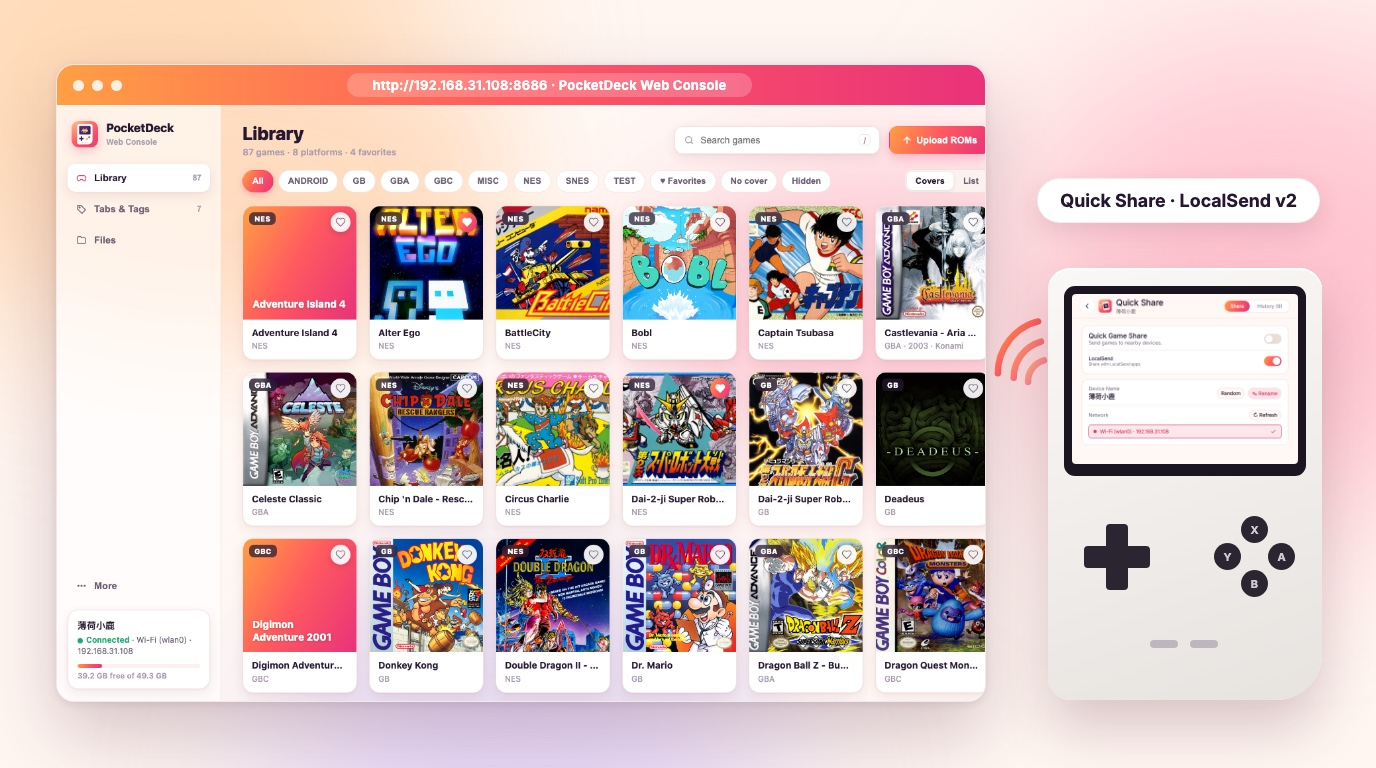
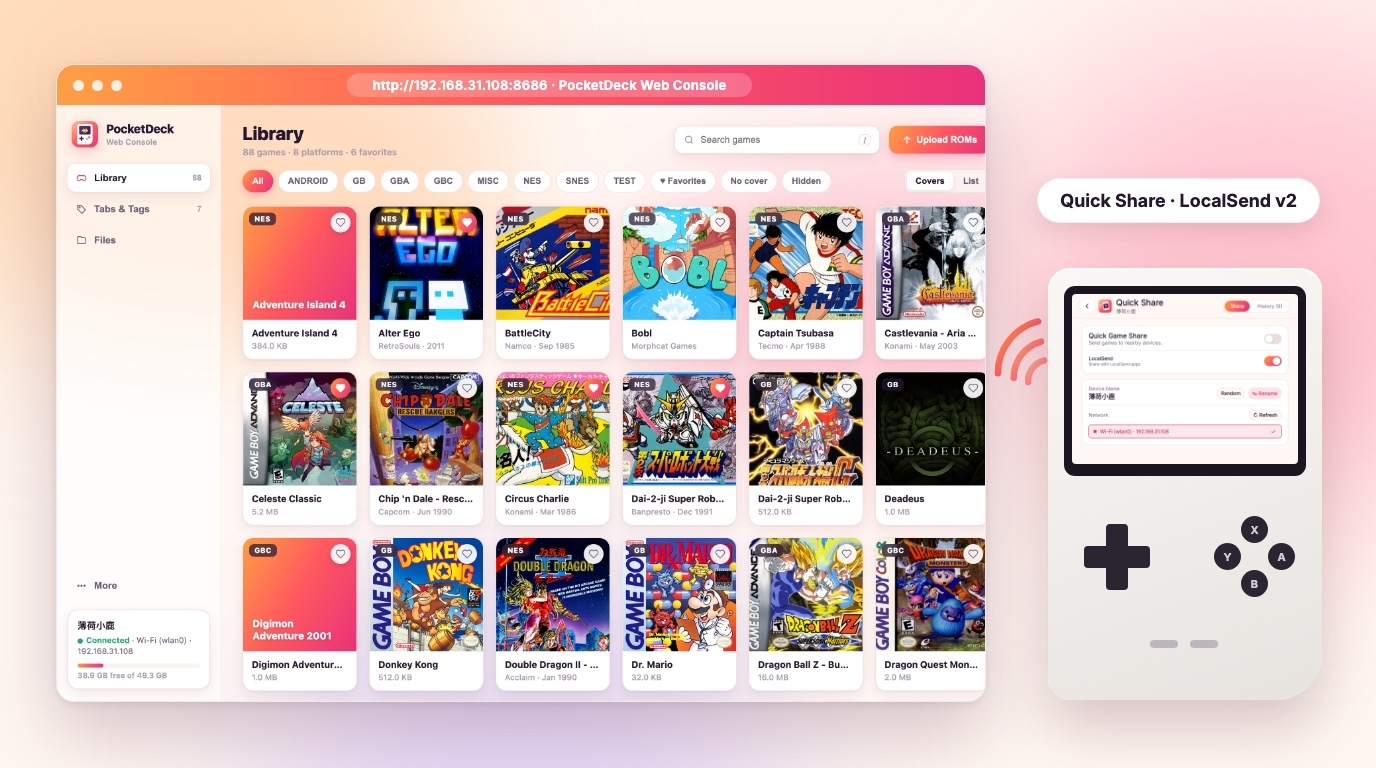
fix(web): polish console layout, edges, metadata, heartbeat, and modal

diff --git a/app/src/main/java/com/pocketdeck/launcher/lan/WebManagerUi.kt b/app/src/main/java/com/pocketdeck/launcher/lan/WebManagerUi.kt
@@ -358,7 +358,8 @@ document.getElementById('f').addEventListener('submit', async (e) => {
   .dev-bar i { display:block; height:100%; width:0%; background:var(--brand); border-radius:999px; transition:width .3s ease; }
   .dev-store { font-size:11.5px; color:var(--label); font-weight:600; }
 
-  .main { flex:1; min-width:0; padding:26px 32px 64px; max-width:1360px; }
+  .main-wrap { flex:1; min-width:0; }
+  .main { width:100%; max-width:1360px; margin:0 auto; padding:26px 32px 64px; }
   .page-top { display:flex; align-items:center; gap:14px; flex-wrap:wrap; margin-bottom:18px; }
   .page-top h1 { margin:0; font-size:28px; font-weight:800; letter-spacing:-.4px; }
   .page-sub { font-size:13.5px; color:var(--label); font-weight:600; margin-top:4px; }
@@ -387,7 +388,8 @@ document.getElementById('f').addEventListener('submit', async (e) => {
   }
   .btn:hover:not(:disabled) { border-color:var(--brand-mid); color:var(--accent); }
   .btn.primary {
-    background:var(--brand); color:#fff; border-color:transparent; font-weight:700;
+    background:var(--brand); background-origin:border-box; background-clip:border-box; background-repeat:no-repeat;
+    color:#fff; border-color:transparent; font-weight:700;
     box-shadow:0 6px 16px color-mix(in srgb, var(--brand-end) 28%, transparent);
   }
   .btn.primary:hover:not(:disabled) { opacity:.94; color:#fff; transform:translateY(-1px); }
@@ -405,7 +407,7 @@ document.getElementById('f').addEventListener('submit', async (e) => {
     display:inline-flex; align-items:center; gap:5px; transition:all .14s;
   }
   .fchip:hover { color:var(--text); border-color:var(--brand-mid); }
-  .fchip.on { background:var(--brand); color:#fff; border-color:transparent; box-shadow:0 4px 12px color-mix(in srgb, var(--brand-end) 26%, transparent); }
+  .fchip.on { background:var(--brand); background-origin:border-box; background-clip:border-box; background-repeat:no-repeat; color:#fff; border-color:transparent; box-shadow:0 4px 12px color-mix(in srgb, var(--brand-end) 26%, transparent); }
   .seg { margin-left:auto; display:inline-flex; background:var(--surf-alt); border:1px solid var(--line); border-radius:11px; padding:3px; gap:2px; }
   .seg button {
     border:0; background:transparent; color:var(--muted); padding:6px 13px;
@@ -511,7 +513,7 @@ document.getElementById('f').addEventListener('submit', async (e) => {
     padding:5px 12px; border-radius:999px; cursor:pointer; font-size:12.5px; font-weight:600;
   }
   .crumb:hover { border-color:var(--brand-mid); color:var(--accent); }
-  .crumb.cur { background:var(--brand); color:#fff; border-color:transparent; cursor:default; }
+  .crumb.cur { background:var(--brand); background-origin:border-box; background-clip:border-box; background-repeat:no-repeat; color:#fff; border-color:transparent; cursor:default; }
   .dropzone {
     border:1.5px dashed color-mix(in srgb, var(--brand-mid) 55%, var(--line));
     border-radius:16px; padding:20px; text-align:center; color:var(--muted);
@@ -529,42 +531,42 @@ document.getElementById('f').addEventListener('submit', async (e) => {
   .batch-bar.show { display:flex; }
 
   .modal-bg {
-    position:fixed; inset:0; background:rgba(23,17,31,.38); backdrop-filter:blur(4px);
+    position:fixed; inset:0; background:rgba(23,17,31,.40); backdrop-filter:blur(4px);
     display:none; align-items:center; justify-content:center; z-index:50; padding:20px;
   }
   .modal-bg.open { display:flex; }
-  .modal-bg.drawer-mode { justify-content:flex-end; align-items:stretch; padding:20px; }
   .modal {
-    width:100%; max-width:680px; max-height:90vh; background:var(--surf);
+    width:100%; max-width:650px; max-height:88vh; background:var(--surf);
     border:1px solid var(--line); border-radius:22px; overflow:hidden;
     display:flex; flex-direction:column; box-shadow:0 30px 80px rgba(36,23,47,.28);
   }
-  .modal-bg.drawer-mode .modal { max-width:416px; max-height:none; height:100%; border-radius:22px; }
   .modal-hd {
     padding:16px 20px; border-bottom:1px solid var(--line);
     display:flex; align-items:center; gap:10px; font-weight:800; font-size:17px;
   }
-  .modal-bd { padding:18px 20px; overflow:auto; flex:1; }
+  .modal-bd { padding:20px; overflow:auto; flex:1; }
   .modal-ft {
     padding:13px 20px; border-top:1px solid var(--line);
     display:flex; gap:8px; justify-content:flex-end; flex-wrap:wrap; background:var(--surf);
   }
 
+  .detail-hero { display:flex; gap:20px; align-items:flex-start; flex-wrap:wrap; margin-bottom:14px; }
   .drawer-cover {
-    width:176px; height:176px; border-radius:16px; overflow:hidden;
-    background:var(--brand); box-shadow:var(--shadow); margin-bottom:14px;
+    width:168px; height:168px; border-radius:16px; overflow:hidden; flex-shrink:0;
+    background:var(--brand); box-shadow:var(--shadow);
     display:grid; place-items:center; color:#fff; font-weight:800; font-size:15px; text-align:center;
   }
   .drawer-cover span { padding:14px; }
   .drawer-cover img { width:100%; height:100%; object-fit:cover; display:block; }
+  .detail-info { flex:1; min-width:220px; }
   .drawer-title { font-size:21px; font-weight:800; letter-spacing:-.3px; margin:0 0 10px; line-height:1.25; }
-  .drawer-tags { display:flex; gap:7px; flex-wrap:wrap; margin-bottom:14px; }
+  .drawer-tags { display:flex; gap:7px; flex-wrap:wrap; margin-bottom:12px; }
   .meta-kv { display:grid; grid-template-columns:1fr 1fr; gap:9px; margin:12px 0 14px; }
   .kv-box { background:var(--surf-alt); border-radius:12px; padding:10px 12px; }
   .kv-k { font-size:11.5px; color:var(--label); font-weight:600; }
   .kv-v { font-size:13.5px; font-weight:700; margin-top:3px; word-break:break-word; color:var(--text); }
-  .drawer-acts { display:flex; gap:8px; flex-wrap:wrap; margin:14px 0 12px; }
-  .drawer-acts .btn { flex:1; justify-content:center; min-width:96px; }
+  .drawer-acts { display:flex; gap:8px; flex-wrap:wrap; margin-top:10px; }
+  .drawer-acts .btn { justify-content:center; }
 
   .plat-grid { display:grid; grid-template-columns:repeat(auto-fill, minmax(120px, 1fr)); gap:7px; max-height:220px; overflow:auto; padding:2px; }
   .plat-chk {
@@ -609,7 +611,7 @@ document.getElementById('f').addEventListener('submit', async (e) => {
   .log-win-bar { display:flex; align-items:center; gap:6px; flex-wrap:wrap; }
   .log-win-btn { border:1px solid #3A2D4A; background:#231A30; color:#E8DFF0; border-radius:8px; padding:4px 9px; font-size:11.5px; font-weight:600; cursor:pointer; }
   .log-win-btn:hover { border-color:var(--brand-mid); }
-  .log-win-btn.on { background:var(--brand); border-color:transparent; color:#fff; }
+  .log-win-btn.on { background:var(--brand); background-origin:border-box; background-clip:border-box; background-repeat:no-repeat; border-color:transparent; color:#fff; }
   .log-win-btn.err { color:#ff7b72; }
   .log-win-in { flex:1; min-width:120px; border:1px solid #3A2D4A; background:#120D1A; color:#F2ECF7; border-radius:8px; padding:4px 9px; font-size:12px; outline:none; }
   .log-win-ft { display:flex; align-items:center; justify-content:space-between; gap:8px; font-size:11px; color:#9E8FB2; }
@@ -688,6 +690,7 @@ document.getElementById('f').addEventListener('submit', async (e) => {
     </div>
   </aside>
 
+  <div class="main-wrap">
   <main class="main">
     <section id="tab-games">
       <div class="page-top">
@@ -790,6 +793,7 @@ document.getElementById('f').addEventListener('submit', async (e) => {
       </div>
     </section>
   </main>
+  </div>
 </div>
 
 <div id="floatDock" class="float-dock">
@@ -1642,6 +1646,10 @@ function toast(msg) {
 async function api(url, opts) {
   const r = await fetch(url, opts);
   if (r.status === 401) { location.reload(); throw new Error('unauthorized'); }
+  if (r.ok) {
+    lastAliveAt = Date.now();
+    hbFailCount = 0;
+  }
   return r;
 }
 
@@ -1853,15 +1861,25 @@ async function cancelFileTask(id, kind) {
   pollFileTasks();
 }
 
+let hbInFlight = false;
+let hbFailCount = 0;
+let lastAliveAt = Date.now();
+
 async function heartbeat() {
+  if (hbInFlight || document.hidden) return;
+  hbInFlight = true;
+  const busy = (typeof activeUploadCtrl !== 'undefined' && !!activeUploadCtrl) || hadActiveTasks;
+  const timeoutMs = busy ? 25000 : 15000;
   const ctrl = typeof AbortController !== 'undefined' ? new AbortController() : null;
-  const timer = ctrl ? setTimeout(() => ctrl.abort(), 2200) : null;
+  const timer = ctrl ? setTimeout(() => ctrl.abort(), timeoutMs) : null;
   try {
     const r = await fetch('/api/theme', { cache: 'no-store', signal: ctrl ? ctrl.signal : undefined });
     if (!r.ok) throw new Error('http_' + r.status);
     const d = await r.json();
     if (!d.ok) throw new Error('not_ok');
     if (d.authed === false) { location.reload(); return; }
+    hbFailCount = 0;
+    lastAliveAt = Date.now();
     applyThemeObj(d.theme);
     const wasOff = !webConnected;
     renderDevInfo(true, typeof d.online === 'boolean' ? d.online : deviceInfo.online);
@@ -1876,18 +1894,25 @@ async function heartbeat() {
       }
     }
     if (d.activeTaskCount > 0 || hadActiveTasks) pollFileTasks();
-  } catch {
-    if (webConnected) {
-      renderDevInfo(false, false);
-      toast(tr('conn_off'));
-    } else {
-      renderDevInfo(false, false);
+  } catch (err) {
+    if (Date.now() - lastAliveAt < 12000) return;
+    const isTimeout = err && err.name === 'AbortError';
+    const failThreshold = (busy || isTimeout) ? 6 : 3;
+    hbFailCount++;
+    if (hbFailCount >= failThreshold) {
+      if (webConnected) {
+        renderDevInfo(false, false);
+        toast(tr('conn_off'));
+      } else {
+        renderDevInfo(false, false);
+      }
     }
   } finally {
     if (timer) clearTimeout(timer);
+    hbInFlight = false;
   }
 }
-setInterval(heartbeat, 3000);
+setInterval(heartbeat, 5000);
 
 document.querySelectorAll('.side .nav-item[data-tab]').forEach(b => b.onclick = () => switchNavTab(b.dataset.tab));
 
@@ -2015,8 +2040,7 @@ function renderGames() {
     container.innerHTML = '<div class="game-grid">' + list.map(g => {
       const safeId = encodeURIComponent(g.id);
       const m = g.metadata || {};
-      const year = m.releaseDate ? String(m.releaseDate).replace(/^.*?(\d{4}).*$/, '$1') : '';
-      const metaLine = [g.platformName, year || null, m.publisher || m.developer || null].filter(Boolean).join(' · ') || (g.isRom ? fmtBytes(g.size) : 'Android');
+      const metaLine = [m.publisher || m.developer || null, m.releaseDate || null].filter(Boolean).join(' · ') || (g.isRom ? fmtBytes(g.size) : (m.genre || '—'));
       const cov = g.hasCover
         ? '<img loading="lazy" src="/api/cover?id=' + safeId + '&v=' + coverVer + '" onerror="this.style.display=\'none\';this.nextElementSibling.style.display=\'flex\'"/>'
         : '';
@@ -2029,7 +2053,7 @@ function renderGames() {
         '</div>' +
         '<div class="gbody">' +
           '<div class="gtitle" title="' + esc(g.title) + '">' + esc(g.title) + '</div>' +
-          '<div class="gmeta">' + esc(metaLine) + '</div>' +
+          '<div class="gmeta" title="' + esc(metaLine) + '">' + esc(metaLine) + '</div>' +
         '</div></div>';
     }).join('') + '</div>';
   } else {
@@ -2066,31 +2090,34 @@ async function openGameDetail(id) {
   const safeId = encodeURIComponent(g.id);
   const customCats = catTabs.filter(t => t.type === 'Custom');
 
-  el('mTitle').textContent = g.platformName;
+  el('mTitle').textContent = g.title;
   el('mBody').innerHTML =
-    '<div class="drawer-cover">' +
-      (g.hasCover
-        ? '<img id="detCoverImg" src="/api/cover?id=' + safeId + '&v=' + coverVer + '" onerror="this.outerHTML=\'<span>' + esc(g.title) + '</span>\'"/>'
-        : '<span>' + esc(g.title) + '</span>') +
-    '</div>' +
-    '<h2 class="drawer-title">' + esc(g.title) + '</h2>' +
-    '<div class="drawer-tags">' +
-      (g.favorite ? '<span class="chip">' + esc(tr('fav_on')) + '</span>' : '') +
-      '<span class="chip muted">' + esc(g.platformName) + (g.platformFullName ? ' · ' + esc(g.platformFullName) : '') + '</span>' +
-      (g.isRom ? '<span class="chip muted">' + fmtBytes(g.size) + '</span>' : '') +
-      (g.hidden ? '<span class="chip warn">' + esc(tr('hidden_tag')) + '</span>' : '') +
+    '<div class="detail-hero">' +
+      '<div class="drawer-cover">' +
+        (g.hasCover
+          ? '<img id="detCoverImg" src="/api/cover?id=' + safeId + '&v=' + coverVer + '" onerror="this.outerHTML=\'<span>' + esc(g.title) + '</span>\'"/>'
+          : '<span>' + esc(g.title) + '</span>') +
+      '</div>' +
+      '<div class="detail-info">' +
+        '<div class="drawer-tags">' +
+          (g.favorite ? '<span class="chip">' + esc(tr('fav_on')) + '</span>' : '') +
+          '<span class="chip muted">' + esc(g.platformName) + (g.platformFullName ? ' · ' + esc(g.platformFullName) : '') + '</span>' +
+          (g.isRom ? '<span class="chip muted">' + fmtBytes(g.size) + '</span>' : '') +
+          (g.hidden ? '<span class="chip warn">' + esc(tr('hidden_tag')) + '</span>' : '') +
+        '</div>' +
+        '<div class="drawer-acts">' +
+          '<button class="btn sm primary" id="btnRefreshMeta" onclick="refreshGameMetaFromHandheld(\'' + escJs(g.id) + '\')">' + esc(tr('btn_find_cover')) + '</button>' +
+          '<button class="btn sm" onclick="scrapeCoverCandidates(\'' + escJs(g.id) + '\')">' + esc(tr('btn_pick_cover_short')) + '</button>' +
+          '<label class="btn sm" style="justify-content:center;">' + esc(tr('btn_upload_short')) + '<input type="file" accept="image/*" style="display:none" onchange="uploadCustomCover(\'' + escJs(g.id) + '\', this.files[0])"/></label>' +
+          (g.hasCustomCover ? '<button class="btn sm" onclick="resetGameCover(\'' + escJs(g.id) + '\')">' + esc(tr('btn_reset_cover')) + '</button>' : '') +
+        '</div>' +
+      '</div>' +
     '</div>' +
     '<div class="meta-kv">' +
       '<div class="kv-box"><div class="kv-k">' + esc(tr('kv_release')) + '</div><div class="kv-v">' + esc(m.releaseDate || '—') + '</div></div>' +
       '<div class="kv-box"><div class="kv-k">' + esc(tr('kv_genre')) + '</div><div class="kv-v">' + esc(m.genre || '—') + '</div></div>' +
       '<div class="kv-box"><div class="kv-k">' + esc(tr('kv_dev')) + '</div><div class="kv-v">' + esc(m.developer || '—') + '</div></div>' +
       '<div class="kv-box"><div class="kv-k">' + esc(tr('kv_pub')) + '</div><div class="kv-v">' + esc(m.publisher || '—') + '</div></div>' +
-    '</div>' +
-    '<div class="drawer-acts">' +
-      '<button class="btn primary" id="btnRefreshMeta" onclick="refreshGameMetaFromHandheld(\'' + escJs(g.id) + '\')">' + esc(tr('btn_find_cover')) + '</button>' +
-      '<button class="btn" onclick="scrapeCoverCandidates(\'' + escJs(g.id) + '\')">' + esc(tr('btn_pick_cover_short')) + '</button>' +
-      '<label class="btn" style="justify-content:center;">' + esc(tr('btn_upload_short')) + '<input type="file" accept="image/*" style="display:none" onchange="uploadCustomCover(\'' + escJs(g.id) + '\', this.files[0])"/></label>' +
-      (g.hasCustomCover ? '<button class="btn" onclick="resetGameCover(\'' + escJs(g.id) + '\')">' + esc(tr('btn_reset_cover')) + '</button>' : '') +
     '</div>' +
     '<div id="candArea"></div>' +
     (customCats.length
@@ -2114,9 +2141,10 @@ async function openGameDetail(id) {
     '<button class="btn sm" onclick="renameGame(\'' + escJs(g.id) + '\',\'' + escJs(g.title) + '\')">' + esc(tr('btn_rename')) + '</button>' +
     '<button class="btn sm" onclick="toggleHide(\'' + escJs(g.id) + '\',' + (!g.hidden) + ',true)">' + esc(g.hidden ? tr('btn_unhide') : tr('btn_hide')) + '</button>' +
     (g.isRom ? '<a class="btn sm" href="/api/files/download?path=' + safeId + '">' + esc(tr('btn_dl')) + '</a>' : '') +
-    (g.isRom ? '<button class="btn sm danger" onclick="deleteFile(\'' + escJs(g.id) + '\',\'' + escJs(g.fileName) + '\',true)">' + esc(tr('btn_del_file')) + '</button>' : '');
+    (g.isRom ? '<button class="btn sm danger" onclick="deleteFile(\'' + escJs(g.id) + '\',\'' + escJs(g.fileName) + '\',true)">' + esc(tr('btn_del_file')) + '</button>' : '') +
+    '<button class="btn sm primary" onclick="closeModal()">' + esc(tr('btn_close')) + '</button>';
 
-  el('modalBg').classList.add('drawer-mode', 'open');
+  el('modalBg').classList.add('open');
 }
 
 async function refreshGameMetaFromHandheld(id) {
@@ -2992,7 +3020,7 @@ function openScrapeLogsModal() {
 }
 
 function closeModal() {
-  el('modalBg').classList.remove('open', 'drawer-mode');
+  el('modalBg').classList.remove('open');
   el('mBody').innerHTML = '';
   el('mFoot').innerHTML = '';
 }

diff --git a/app/src/main/java/com/pocketdeck/launcher/ui/home/HomeViewModel.kt b/app/src/main/java/com/pocketdeck/launcher/ui/home/HomeViewModel.kt
@@ -174,6 +174,23 @@ class HomeViewModel(
     private var initialTabPicked = false
     private var focusResolveJob: Job? = null
 
+    /**
+     * 活跃标签页排序列表 LRU 缓存（仅常驻最近访问的 5 个标签页），
+     * 避免 30+ 分类、上万款游戏场景下反复全量排序或常驻过多分类列表占用内存。
+     */
+    private data class TabGamesCacheKey(
+        val tabId: String,
+        val tabType: TabType,
+        val libIdentity: Int,
+        val sortOrder: CategorySortOrder?,
+        val listSignature: Int,
+    )
+
+    private val tabGamesLru = object : LinkedHashMap<TabGamesCacheKey, List<Game>>(8, 0.75f, true) {
+        override fun removeEldestEntry(eldest: MutableMap.MutableEntry<TabGamesCacheKey, List<Game>>?): Boolean =
+            size > 5
+    }
+
     init {
         viewModelScope.launch {
             var lastLib: Library? = null
@@ -490,23 +507,6 @@ class HomeViewModel(
         return all.withIndex()
             .sortedBy { (i, t) -> order[t.id] ?: (100_000 + i) }
             .map { it.value }
-    }
-
-    /**
-     * 活跃标签页排序列表 LRU 缓存（仅常驻最近访问的 5 个标签页），
-     * 避免 30+ 分类、上万款游戏场景下反复全量排序或常驻过多分类列表占用内存。
-     */
-    private data class TabGamesCacheKey(
-        val tabId: String,
-        val tabType: TabType,
-        val libIdentity: Int,
-        val sortOrder: CategorySortOrder?,
-        val listSignature: Int,
-    )
-
-    private val tabGamesLru = object : LinkedHashMap<TabGamesCacheKey, List<Game>>(8, 0.75f, true) {
-        override fun removeEldestEntry(eldest: MutableMap.MutableEntry<TabGamesCacheKey, List<Game>>?): Boolean =
-            size > 5
     }
 
     private fun getGamesForTab(

diff --git a/app/src/main/java/com/pocketdeck/launcher/ui/components/CoverCard.kt b/app/src/main/java/com/pocketdeck/launcher/ui/components/CoverCard.kt
@@ -498,6 +498,7 @@ fun DefaultCoverArt(
     appIcon: ImageBitmap? = null,
 ) {
     val p = LocalDeckColors.current
+    val tiny = cardHeight < 64.dp
     val compact = cardHeight < 120.dp
 
     Box(
@@ -512,11 +513,19 @@ fun DefaultCoverArt(
                     end = Offset(w, h),
                 )
                 // 手柄图标几何（白色线性），仅在尺寸变化时重算
-                val iconScale = if (compact) 0.40f else 0.34f
+                val iconScale = when {
+                    tiny -> 0.56f
+                    compact -> 0.40f
+                    else -> 0.34f
+                }
                 val gw = w * iconScale
                 val gh = gw * 0.62f
                 val gx = (w - gw) / 2f
-                val gy = if (centeredTitle) h * 0.20f else h * 0.30f
+                val gy = when {
+                    tiny -> (h - gh) / 2f
+                    centeredTitle -> h * 0.20f
+                    else -> h * 0.30f
+                }
                 val strokeW = (if (compact) 1.6f else 2.4f).dp.toPx()
                 val stroke = Stroke(width = strokeW)
                 val bodyCorner = CornerRadius(gh * 0.48f, gh * 0.48f)
@@ -552,7 +561,9 @@ fun DefaultCoverArt(
             )
         }
 
-        if (centeredTitle) {
+        if (tiny) {
+            // 极小列表缩略图仅展示居中图标，避免与外侧标题重叠
+        } else if (centeredTitle) {
             // 气泡或极小卡片：居中简洁显示标题
             Column(
                 Modifier

diff --git a/README_ZH.md b/README_ZH.md
@@ -46,7 +46,7 @@ PocketDeck 基于 **Jetpack Compose** 原生打造，零重型反射框架、自
 
 只需在同一局域网下打开浏览器访问掌机地址（`http://<掌机IP>:8686`），输入掌机屏幕上的 **4 位动态密码**（内置防暴力猜测锁定与会话踢出），即可获得完整的桌面端管理控制台：
 
-- **Sunset Arcade 设计与实时主题同步**：磨砂侧边栏、设备与存储进度卡片、平台胶囊筛选、右侧详情抽屉与品牌渐变占位封面，并**实时跟随掌机当前的浅色 / 深色模式与 8 套双色渐变主题**动态切换。
+- **Sunset Arcade 设计与实时主题同步**：磨砂侧边栏、设备与存储进度卡片、平台胶囊筛选、居中详情弹窗与品牌渐变占位封面，并**实时跟随掌机当前的浅色 / 深色模式与 8 套双色渐变主题**动态切换。
 - **封面与元数据 100% 源自掌机本身**：网页端展示的所有游戏封面与元数据均由掌机直接提供或由掌机本地缓存回传（浏览器绝不直连任何外网域名）；需要更新时可从网页端一键触发掌机联网刮削、查看实时悬浮刮削日志，或直接从电脑上传自定义封面。
 - **网页端标签分类管理（带严格安全校验）**：在网页端直接**拖拽排序**、新建与编辑自定义分类、`NOW / FAVS / OTHER` 系统标签别名及排序规则、设置显隐；保存同步至掌机时，掌机端会对结构与引用完整性做严格校验并实时刷新界面。
 - **全能 Web 文件库系统**：支持面包屑导航、磁盘剩余空间统计、按名称/大小/时间/类型排序与过滤、**多选批量移动 / 复制 / 打包 ZIP / 删除**、**整个文件夹拖放或选择上传（`webkitdirectory`）**、压缩包内容预览与解压（ZIP / 7Z / RAR / TAR）、图片/音频在线预览以及配置文件在线编辑。

diff --git a/README.md b/README.md
@@ -46,7 +46,7 @@ PocketDeck is crafted from the ground up with **Jetpack Compose**, zero heavy DI
 
 Turn any PC, Mac, or tablet browser on your LAN into a full **Web Game Library Console** (`http://<handheld-ip>:8686`) secured with a dynamic 4-digit PIN and brute-force rate limiting:
 
-- **Sunset Arcade UI & Live Theme Sync**: Frosted sidebar, bottom device & storage card, pill filter chips, right-hand detail drawer, and brand-gradient placeholders that automatically mirror your handheld's **Light / Dark mode** and **8 Dual-Tone Gradient Themes** in real time.
+- **Sunset Arcade UI & Live Theme Sync**: Frosted sidebar, bottom device & storage card, pill filter chips, centered detail modal, and brand-gradient placeholders that automatically mirror your handheld's **Light / Dark mode** and **8 Dual-Tone Gradient Themes** in real time.
 - **100% Handheld-Served Covers & Metadata**: Displays box art and full metadata served directly from the handheld (the browser never connects to external internet domains). Need an update? Trigger scraping on the handheld right from the browser modal, watch live floating scrape logs, or upload custom cover art.
 - **Visual Tag & Category Editor**: Drag-and-drop reordering, editing `NOW / FAVS / OTHER` aliases & sort orders, binding platforms to custom categories, and syncing directly to the handheld with strict server-side schema & bounds validation.
 - **Complete File & Archive Manager**: Clickable breadcrumbs, multi-select batch Move / Copy / Delete / Compress to ZIP, folder drag-and-drop upload (`webkitdirectory`), archive inspection & extraction (ZIP / 7Z / RAR / TAR), image/audio previews, and inline text/config editing.
